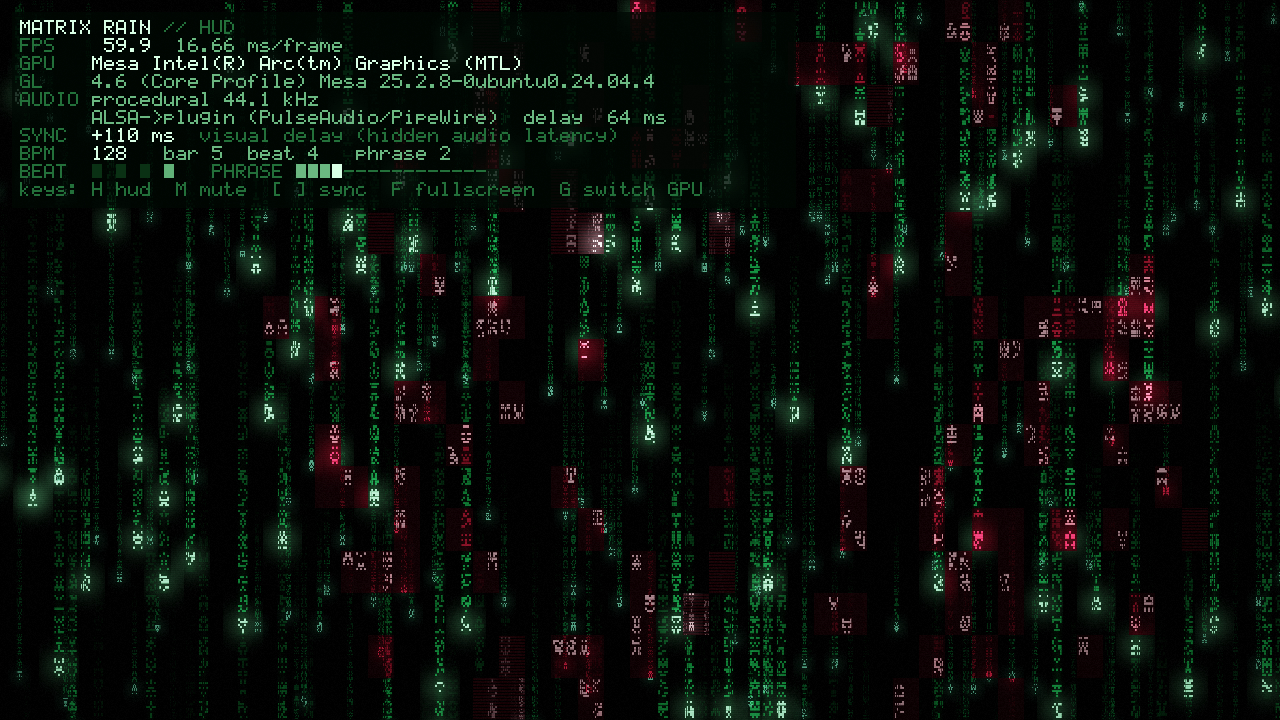
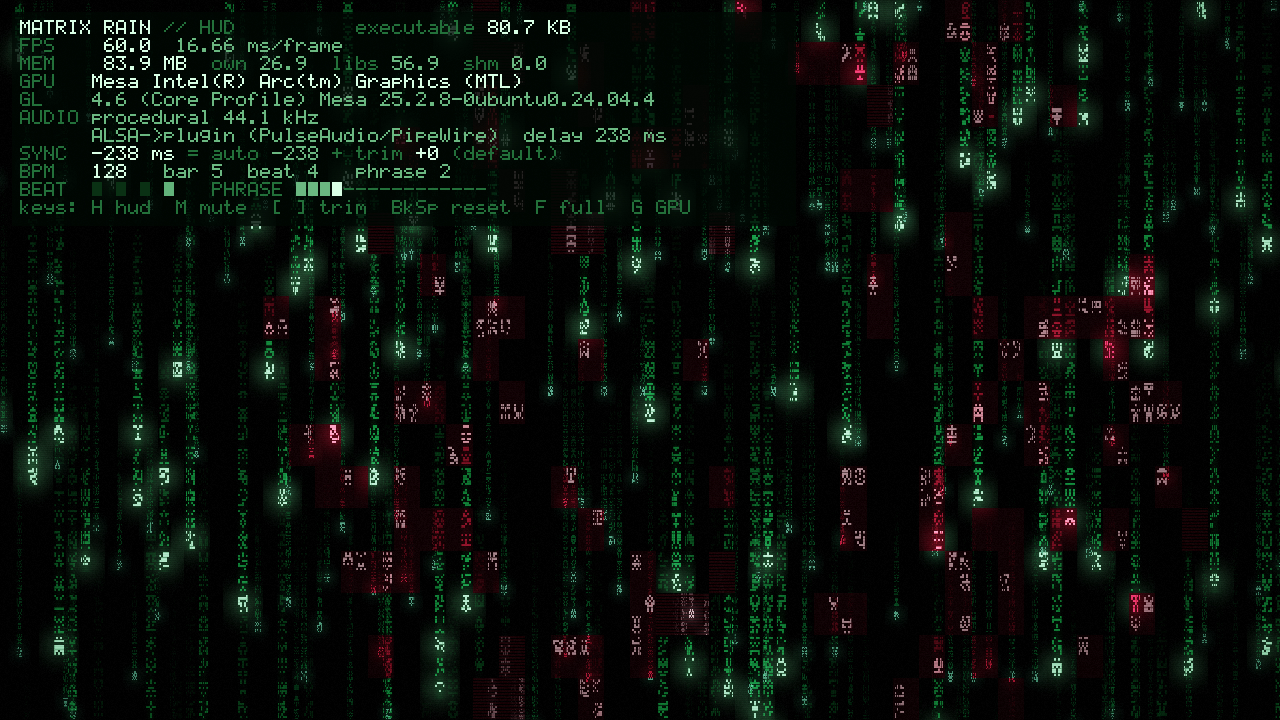
Refresh README screenshot with the new HUD; document sharing the binary
Screenshot shows executable size, memory, auto-sync (-238 ms on
Bluetooth) and a breaking-up virus outbreak. New README section lists
the runtime libraries (libglfw3 usually missing on desktops), the glibc
2.38 floor from building on 24.04, and how to target older distros.

diff --git a/README.md b/README.md
@@ -1,6 +1,6 @@
 # MATRIX RAIN: a 4K-intro-style demo for Linux
 
-![Matrix digital rain with the HUD open (FPS, GPU, audio sync, beat and phrase meters) as a red virus outbreak breaks up into scattered blocks](docs/screenshot.png)
+![Matrix digital rain with the HUD open (executable size, FPS, memory, GPU, audio delay and auto-sync, beat and phrase meters) as a red virus outbreak breaks up into scattered blocks](docs/screenshot.png)
 
 *HUD on (`H`), a few beats after a phrase hit: the red virus is breaking up and the green code is taking back over.*
 
@@ -184,6 +184,41 @@ numbers (it's not system RAM).
 
 `./bin/demo --export ref.wav` gives you the built-in loop as a WAV, handy as a
 style or tempo reference when prompting a music model.
+
+## Sharing the binary
+
+`bin/demo` isn't fully self-contained. It loads these shared libraries at
+startup (`objdump -p bin/demo | grep NEEDED`):
+
+| Library | Ubuntu package (runtime, not `-dev`) | On a normal desktop? |
+|---------|--------------------------------------|----------------------|
+| `libglfw.so.3`   | `libglfw3`       | **usually not**, install it |
+| `libGL.so.1`     | `libgl1`         | yes                         |
+| `libasound.so.2` | `libasound2t64`  | yes                         |
+| `libc`, `libm`   | `libc6`          | yes                         |
+
+So on another **Ubuntu 24.04 (or newer) x86-64 desktop**, the recipient needs:
+
+```sh
+sudo apt install libglfw3
+./demo
+```
+
+(Checked in a clean `ubuntu:24.04` container: before installing the libraries,
+`ldd` reports GLFW, GL and ALSA as missing; after installing them, nothing is.)
+
+**Older systems won't run it.** Built on 24.04, it requires **glibc 2.38**
+(`objdump -T bin/demo | grep GLIBC_2.3`), e.g. for `fmod` and the C23
+`sscanf`. Ubuntu 22.04 ships glibc 2.35 and fails with
+`GLIBC_2.38 not found`. glibc is backward compatible, not forward, so to
+support older distros, **build on the oldest one you want to support**
+(e.g. inside an `ubuntu:22.04` container). Other distros (Fedora, Arch…) work
+if their glibc is new enough and they have GLFW installed. Different CPU
+architectures (ARM) need a rebuild.
+
+The most portable option is still the source: `git clone` + `make` takes
+seconds. For sharing a ready-made binary, attach it to a GitHub Release
+together with the one-line `apt install` above.
 
 ## GPU selection (hybrid laptops), drivers and display servers
 
